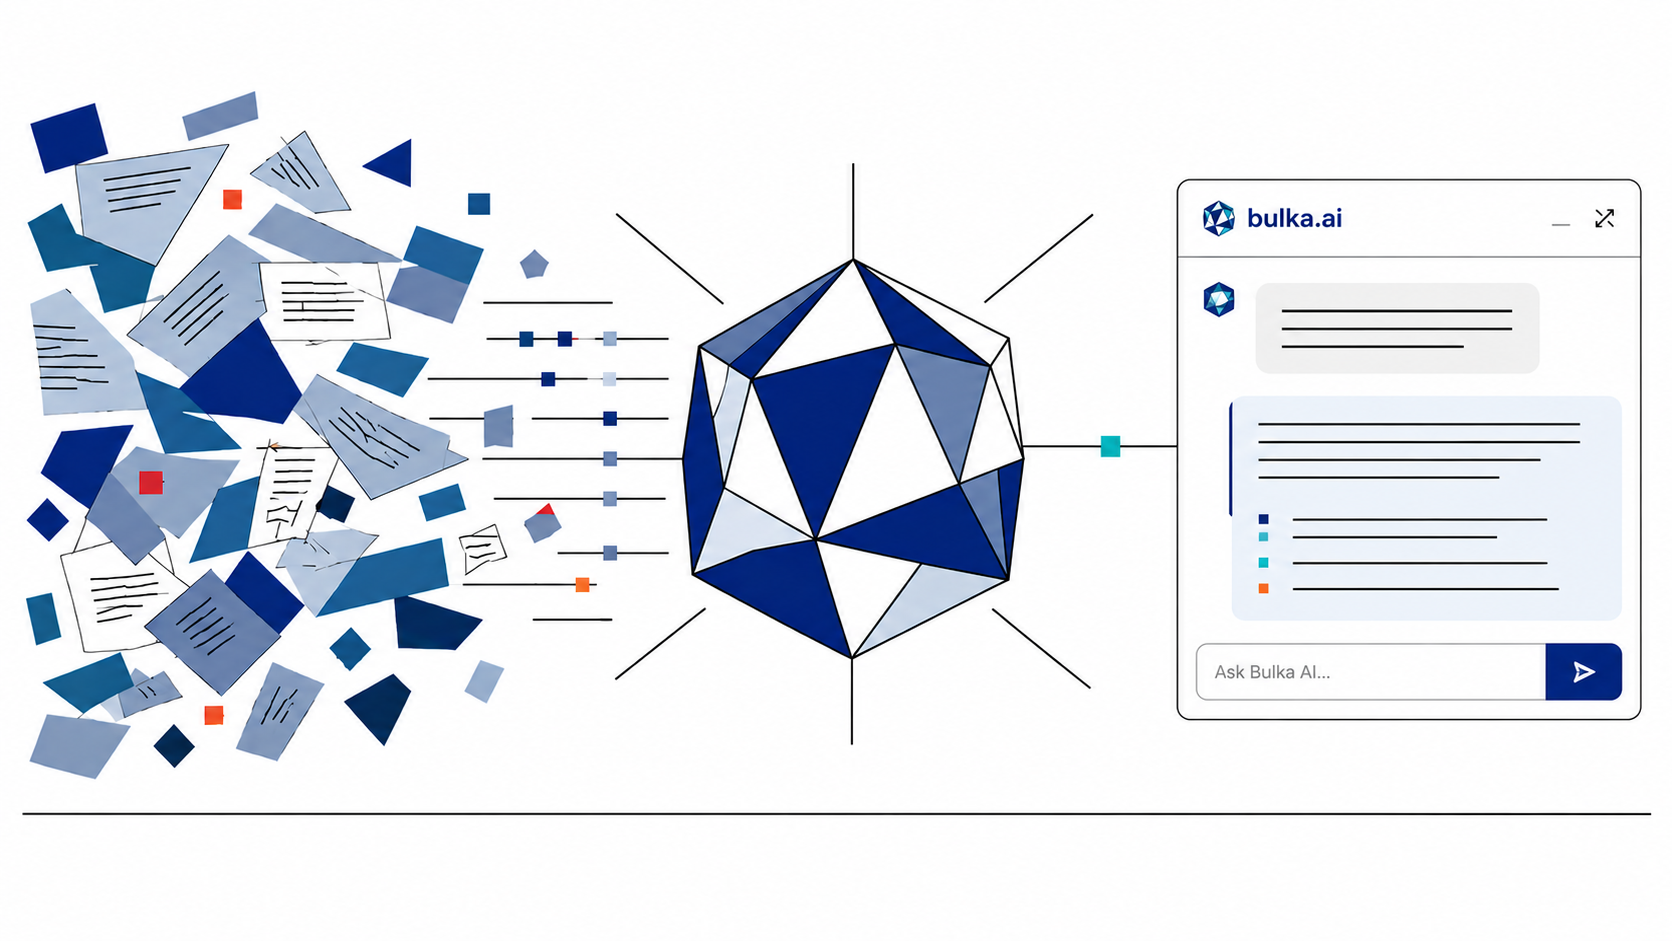
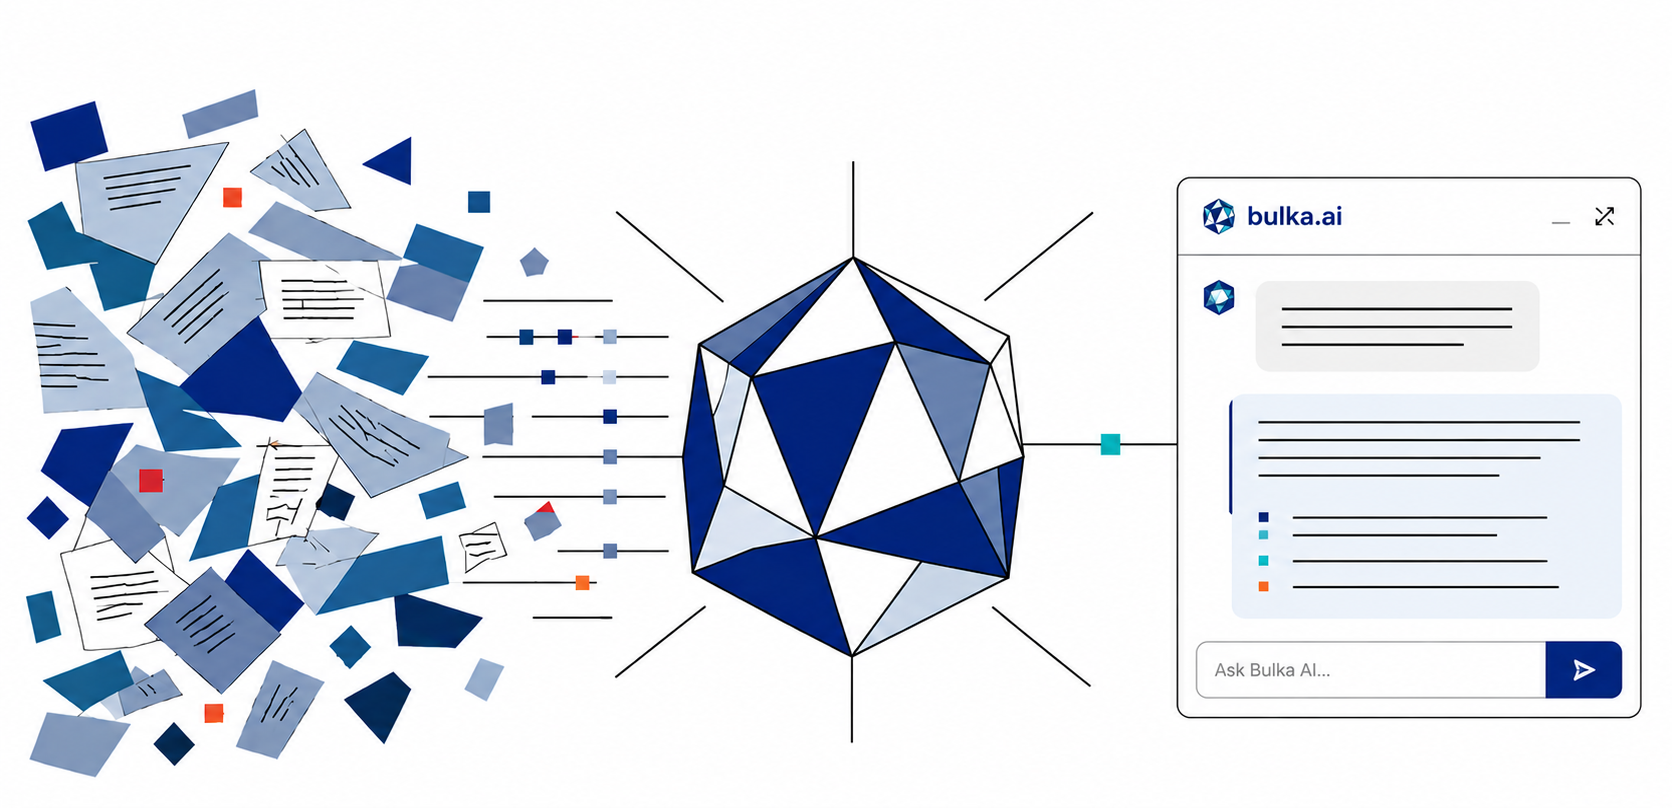
Crop horizon line out of hero image; update prompt to disallow it

diff --git a/hero-prompt.md b/hero-prompt.md
@@ -22,7 +22,7 @@ A single structured geometric polyhedron, the visual anchor of the entire image.
 The same fragments from the left, now resolved into clean, ordered, horizontal and stacked planes — a structured grid or layered stack. Calm, stable, aligned. Use lighter, brighter tones: white, ivory, pale-blue, with a single accent of **turquoise** or **warm orange** as a small confirmation indicator (a triangular tick or a small block). Everything here is parallel, balanced, and intentional.
 
 **BACKGROUND:**
-Pure white or near-white field (#FFFFFF or #FAFAF7). Optionally a single thin black horizontal line near the bottom of the canvas serving as an abstract ground/horizon — but no landscape, no skyline, no scenery. The composition floats on the white field.
+Pure white or near-white field (#FFFFFF or #FAFAF7). No horizon line, no ground line, no landscape, no skyline, no scenery, no border. The composition floats on the white field with no framing line.
 
 **STYLE — STRICT:**
 - Only straight lines and sharply broken edges. No curves anywhere. No circles or arcs unless built from straight segments.
